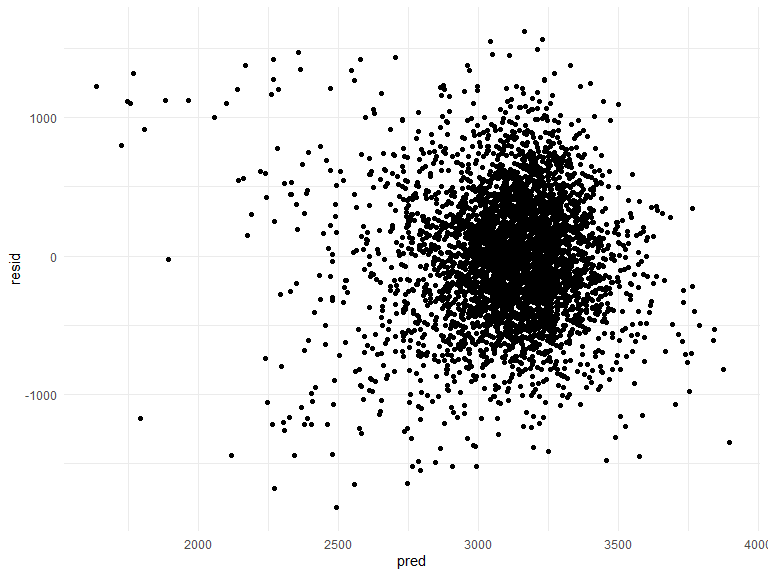
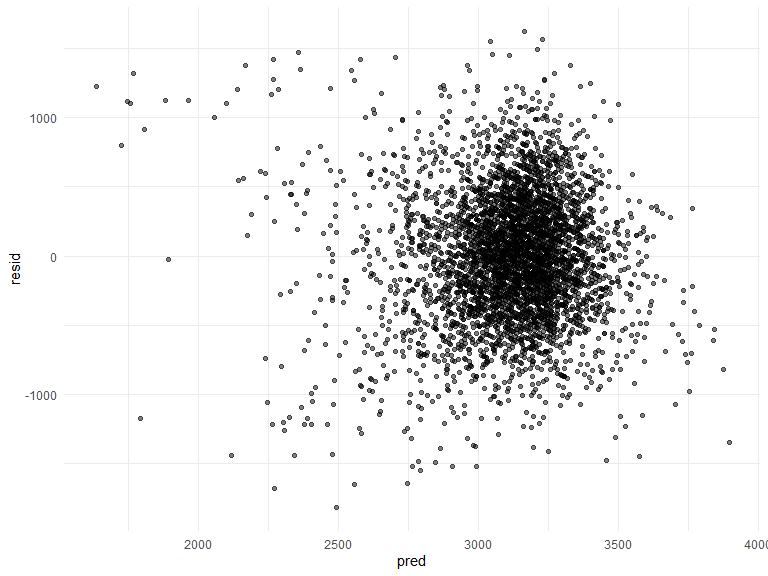
Finishing Problem 1, starting Problem 2

diff --git a/p8105_hw6_kmw2189.md b/p8105_hw6_kmw2189.md
@@ -21,57 +21,6 @@ birthweight_df = read_csv("data/birthweight.csv") %>%
 ``` r
 ## checking for missings, etc.
 skimr::skim(birthweight_df)
-```
-
-    ## Skim summary statistics
-    ##  n obs: 4342 
-    ##  n variables: 20 
-    ## 
-    ## -- Variable type:numeric --------------------------------------
-    ##  variable missing complete    n      mean      sd     p0     p25     p50
-    ##   babysex       0     4342 4342    1.49     0.5     1       1       1   
-    ##     bhead       0     4342 4342   33.65     1.62   21      33      34   
-    ##   blength       0     4342 4342   49.75     2.72   20      48      50   
-    ##       bwt       0     4342 4342 3114.4    512.15  595    2807    3132.5 
-    ##     delwt       0     4342 4342  145.57    22.21   86     131     143   
-    ##   fincome       0     4342 4342   44.11    25.98    0      25      35   
-    ##     frace       0     4342 4342    1.66     0.85    1       1       2   
-    ##   gaweeks       0     4342 4342   39.43     3.15   17.7    38.3    39.9 
-    ##   malform       0     4342 4342    0.0035   0.059   0       0       0   
-    ##  menarche       0     4342 4342   12.51     1.48    0      12      12   
-    ##   mheight       0     4342 4342   63.49     2.66   48      62      63   
-    ##    momage       0     4342 4342   20.3      3.88   12      18      20   
-    ##     mrace       0     4342 4342    1.63     0.77    1       1       2   
-    ##    parity       0     4342 4342    0.0023   0.1     0       0       0   
-    ##   pnumlbw       0     4342 4342    0        0       0       0       0   
-    ##   pnumsga       0     4342 4342    0        0       0       0       0   
-    ##     ppbmi       0     4342 4342   21.57     3.18   13.07   19.53   21.03
-    ##      ppwt       0     4342 4342  123.49    20.16   70     110     120   
-    ##    smoken       0     4342 4342    4.15     7.41    0       0       0   
-    ##    wtgain       0     4342 4342   22.08    10.94  -46      15      22   
-    ##      p75   p100     hist
-    ##     2       2   <U+2587><U+2581><U+2581><U+2581><U+2581><U+2581><U+2581><U+2587>
-    ##    35      41   <U+2581><U+2581><U+2581><U+2581><U+2585><U+2587><U+2581><U+2581>
-    ##    51      63   <U+2581><U+2581><U+2581><U+2581><U+2581><U+2587><U+2581><U+2581>
-    ##  3459    4791   <U+2581><U+2581><U+2581><U+2583><U+2587><U+2587><U+2582><U+2581>
-    ##   157     334   <U+2581><U+2587><U+2585><U+2581><U+2581><U+2581><U+2581><U+2581>
-    ##    65      96   <U+2581><U+2582><U+2587><U+2582><U+2582><U+2582><U+2581><U+2583>
-    ##     2       8   <U+2587><U+2587><U+2581><U+2581><U+2581><U+2581><U+2581><U+2581>
-    ##    41.1    51.3 <U+2581><U+2581><U+2581><U+2581><U+2583><U+2587><U+2581><U+2581>
-    ##     0       1   <U+2587><U+2581><U+2581><U+2581><U+2581><U+2581><U+2581><U+2581>
-    ##    13      19   <U+2581><U+2581><U+2581><U+2581><U+2582><U+2587><U+2581><U+2581>
-    ##    65      77   <U+2581><U+2581><U+2581><U+2585><U+2587><U+2582><U+2581><U+2581>
-    ##    22      44   <U+2582><U+2587><U+2585><U+2582><U+2581><U+2581><U+2581><U+2581>
-    ##     2       4   <U+2587><U+2581><U+2587><U+2581><U+2581><U+2581><U+2581><U+2581>
-    ##     0       6   <U+2587><U+2581><U+2581><U+2581><U+2581><U+2581><U+2581><U+2581>
-    ##     0       0   <U+2581><U+2581><U+2581><U+2587><U+2581><U+2581><U+2581><U+2581>
-    ##     0       0   <U+2581><U+2581><U+2581><U+2587><U+2581><U+2581><U+2581><U+2581>
-    ##    22.91   46.1 <U+2581><U+2587><U+2585><U+2581><U+2581><U+2581><U+2581><U+2581>
-    ##   134     287   <U+2581><U+2587><U+2586><U+2581><U+2581><U+2581><U+2581><U+2581>
-    ##     5      60   <U+2587><U+2581><U+2581><U+2581><U+2581><U+2581><U+2581><U+2581>
-    ##    28      89   <U+2581><U+2581><U+2581><U+2587><U+2587><U+2581><U+2581><U+2581>
-
-``` r
 ##there appear to be no missings for any of the the variables, yay!
 ```
 
@@ -93,34 +42,30 @@ birthweight_df = birthweight_df %>%
 **Model fitting**
 
 From my experience working with birth outcomes, specifically
-birthweight, there are 3 covariates that are absolutely necessary to
-include in the model: gestational age, maternal BMI, and a socioeconomic
-status indicator. For this model I will use family income as the SES
-indicator.
+birthweight, there are 3 covariates that are necessary to include in the
+model: gestational age, maternal BMI, and a socioeconomic status (SES)
+indicator. For this model I will use family income as the SES indicator.
 
 ``` r
-birthwt_mdl_1 = lm(bwt ~ gaweeks + ppbmi + fincome, data = birthweight_df) 
-
-birthwt_mdl_1 %>% 
-  broom::tidy() 
+birthwt_mdl_1 = lm(bwt ~ gaweeks + ppbmi + fincome, data = birthweight_df)
 ```
 
-    ## # A tibble: 4 x 5
-    ##   term        estimate std.error statistic   p.value
-    ##   <chr>          <dbl>     <dbl>     <dbl>     <dbl>
-    ## 1 (Intercept)   173.      98.7        1.76 7.93e-  2
-    ## 2 gaweeks        64.6      2.23      28.9  2.68e-168
-    ## 3 ppbmi          13.7      2.20       6.24 4.73e- 10
-    ## 4 fincome         2.25     0.271      8.28 1.61e- 16
-
 ``` r
+##plot of model residuals against fitted values
 birthweight_df %>% 
   modelr::add_residuals(birthwt_mdl_1) %>% 
   modelr::add_predictions(birthwt_mdl_1) %>% 
-  ggplot(aes(x = pred, y = resid)) + geom_point()
+  ggplot(aes(x = pred, y = resid)) + 
+  geom_point(alpha = 0.5) +
+  labs(
+      title = "Model 1 residuals against predicted values",
+      x = "Predicted Values",
+      y = "Residuals",
+      caption = "Summary of predicted values from a model of birthweight by the residuals of the model"
+  )
 ```
 
-<img src="p8105_hw6_kmw2189_files/figure-gfm/unnamed-chunk-2-1.png" width="90%" />
+<img src="p8105_hw6_kmw2189_files/figure-gfm/visualization of model 1-1.png" width="90%" />
 
 Compare your model to two others:
 
@@ -129,41 +74,115 @@ effects only)
 
 ``` r
 birthwt_mdl_2 = lm(bwt ~ gaweeks + blength, data = birthweight_df) 
-
-birthwt_mdl_2 %>% 
-  broom::tidy() 
 ```
-
-    ## # A tibble: 3 x 5
-    ##   term        estimate std.error statistic  p.value
-    ##   <chr>          <dbl>     <dbl>     <dbl>    <dbl>
-    ## 1 (Intercept)  -4348.      98.0      -44.4 0.      
-    ## 2 gaweeks         27.0      1.72      15.7 2.36e-54
-    ## 3 blength        129.       1.99      64.6 0.
 
 One using head circumference, length, sex, and all interactions
 (including the three-way interaction) between these
 
 ``` r
 birthwt_mdl_3 = lm(bwt ~ bhead + blength + sex + bhead*blength + bhead*sex + blength*sex + bhead*blength*sex, data = birthweight_df) 
-
-birthwt_mdl_3 %>% 
-  broom::tidy() 
 ```
-
-    ## # A tibble: 8 x 5
-    ##   term                     estimate std.error statistic      p.value
-    ##   <chr>                       <dbl>     <dbl>     <dbl>        <dbl>
-    ## 1 (Intercept)             -7177.     1265.       -5.67  0.0000000149
-    ## 2 bhead                     182.       38.1       4.78  0.00000184  
-    ## 3 blength                   102.       26.2       3.90  0.0000992   
-    ## 4 sexfemale                6375.     1678.        3.80  0.000147    
-    ## 5 bhead:blength              -0.554     0.780    -0.710 0.478       
-    ## 6 bhead:sexfemale          -198.       51.1      -3.88  0.000105    
-    ## 7 blength:sexfemale        -124.       35.1      -3.52  0.000429    
-    ## 8 bhead:blength:sexfemale     3.88      1.06      3.67  0.000245
-
-I was surprised to find that there were so many
 
 Make this comparison in terms of the cross-validated prediction error;
 use crossv\_mc and functions in purrr as appropriate.
+
+``` r
+##Plotting predicted birthweight values against the true birthwight values for each model. 
+birthweight_df %>% 
+  gather_predictions(birthwt_mdl_1, birthwt_mdl_2, birthwt_mdl_3) %>% 
+  mutate(model = fct_inorder(model)) %>% 
+  ggplot(aes(x = bwt, y = pred))  + 
+  geom_point() + 
+  ##geom_line(aes(y = pred), color = "red") + 
+  facet_wrap(~model)
+```
+
+<img src="p8105_hw6_kmw2189_files/figure-gfm/plotting models-1.png" width="90%" />
+
+``` r
+##create the training and testing datasets using modelr
+cv_df =
+  crossv_mc(birthweight_df, 100)
+
+##use mutate + map & map2 to fit models to training data and obtain corresponding RMSEs for the testing data
+cv_df = 
+  cv_df %>% 
+  mutate(
+    birthwt_mdl_1 = map(train, ~lm(bwt ~ gaweeks + ppbmi + fincome, data = .x)), 
+    birthwt_mdl_2 = map(train, ~lm(bwt ~ gaweeks + blength, data = .x)),
+    birthwt_mdl_3 = map(train, ~lm(bwt ~ bhead + blength + sex + bhead*blength + bhead*sex + blength*sex + bhead*blength*sex, data = as_tibble(.x)))
+    ) %>% 
+  mutate(
+    rmse_mdl_1 = map2_dbl(birthwt_mdl_1, test, ~rmse(model = .x, data = .y)),
+    rmse_mdl_2 = map2_dbl(birthwt_mdl_2, test, ~rmse(model = .x, data = .y)),
+    rmse_mdl_3 = map2_dbl(birthwt_mdl_3, test, ~rmse(model = .x, data = .y))
+    )
+```
+
+``` r
+##plotting rmse for each model
+cv_df %>% 
+  select(starts_with("rmse")) %>% 
+pivot_longer(
+    everything(),
+    names_to = "model", 
+    values_to = "rmse",
+    names_prefix = "rmse_") %>% 
+  mutate(model = fct_inorder(model)) %>% 
+  ggplot(aes(x = model, y = rmse)) + 
+  geom_violin() +
+  labs(
+      title = "RMSEs for each model",
+      x = "Model",
+      y = "RMSE",
+      caption = "Evaluating the best fit of models predicting birthweight"
+  )
+```
+
+<img src="p8105_hw6_kmw2189_files/figure-gfm/plotting RMSEs-1.png" width="90%" />
+
+**Conclusion** My initially predicted model using gestational age,
+maternal BMI, and income as an SES measure did not perform nearly as
+well as I anticipated\! Model 3, or the “fully loaded” model containing
+head cinrumference, birth length and sex interactions perfomred the
+best. If I were to revise my original model I would definitely include
+birth length.
+
+## Question 2
+
+``` r
+weather_df = 
+  rnoaa::meteo_pull_monitors(
+    c("USW00094728"),
+    var = c("PRCP", "TMIN", "TMAX"), 
+    date_min = "2017-01-01",
+    date_max = "2017-12-31") %>%
+  mutate(
+    name = recode(id, USW00094728 = "CentralPark_NY"),
+    tmin = tmin / 10,
+    tmax = tmax / 10) %>%
+  select(name, id, everything())
+```
+
+    ## Registered S3 method overwritten by 'crul':
+    ##   method                 from
+    ##   as.character.form_file httr
+
+    ## Registered S3 method overwritten by 'hoardr':
+    ##   method           from
+    ##   print.cache_info httr
+
+    ## file path:          C:\Users\lifeo\AppData\Local\rnoaa\rnoaa\Cache/ghcnd/USW00094728.dly
+
+    ## file last updated:  2019-11-03 22:01:50
+
+    ## file min/max dates: 1869-01-01 / 2019-11-30
+
+Use 5000 bootstrap samples and, for each bootstrap sample, produce
+estimates of these two quantities. Plot the distribution of your
+estimates, and describe these in words. Using the 5000 bootstrap
+estimates, identify the 2.5% and 97.5% quantiles to provide a 95%
+confidence interval for r^2 and log(β<sup>0∗β</sup>1). Note:
+broom::glance() is helpful for extracting r^2 from a fitted regression,
+and broom::tidy() (with some additional wrangling) should help in
+computing log(β<sup>0∗β</sup>1).
